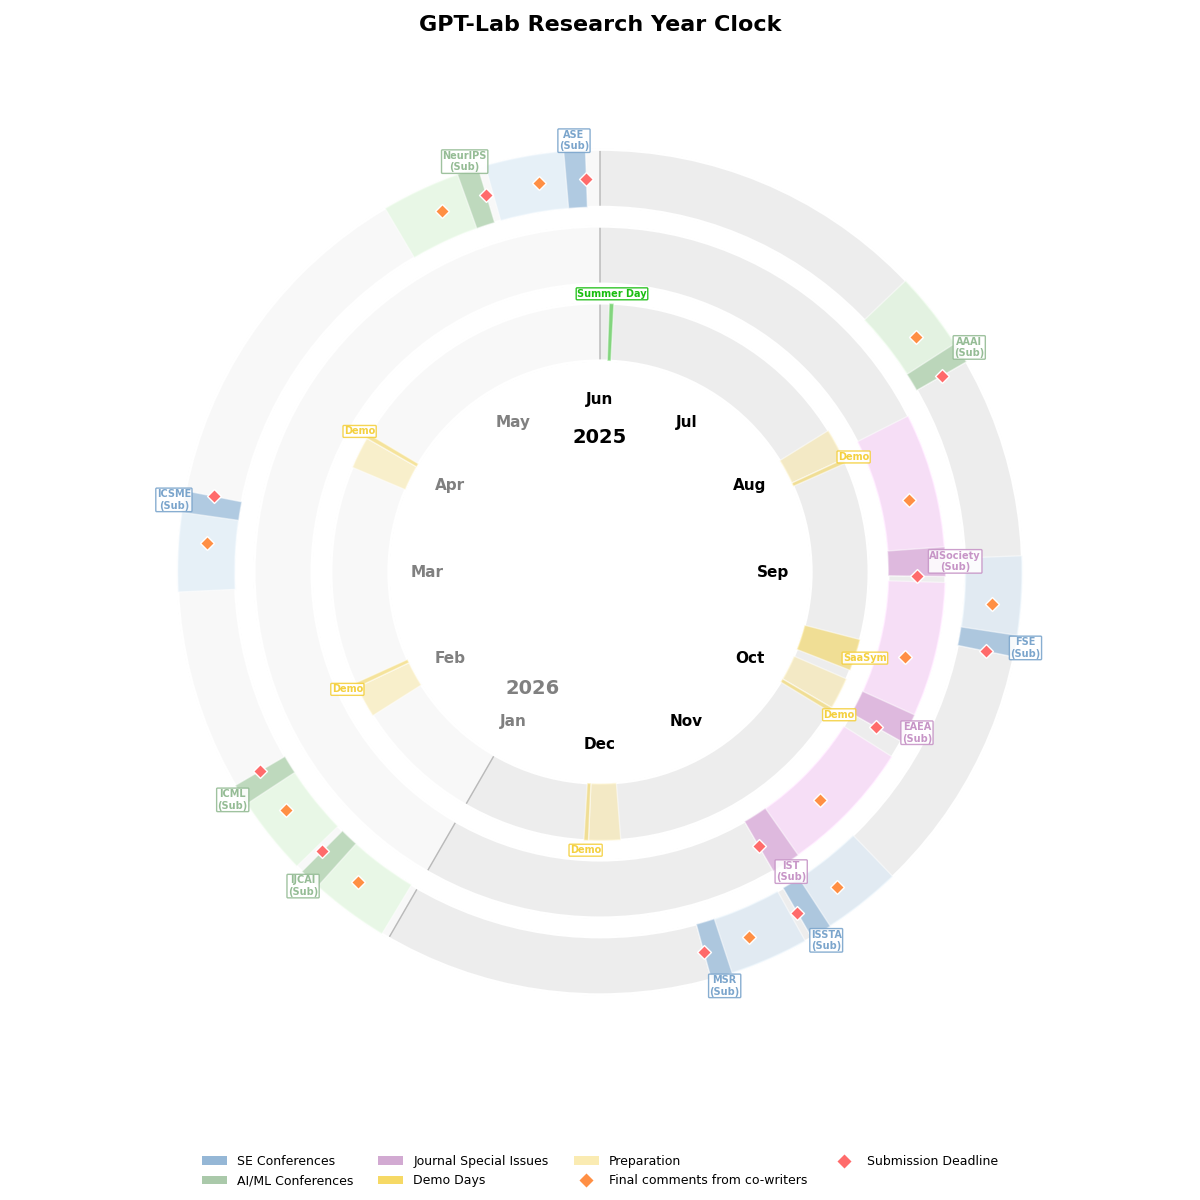
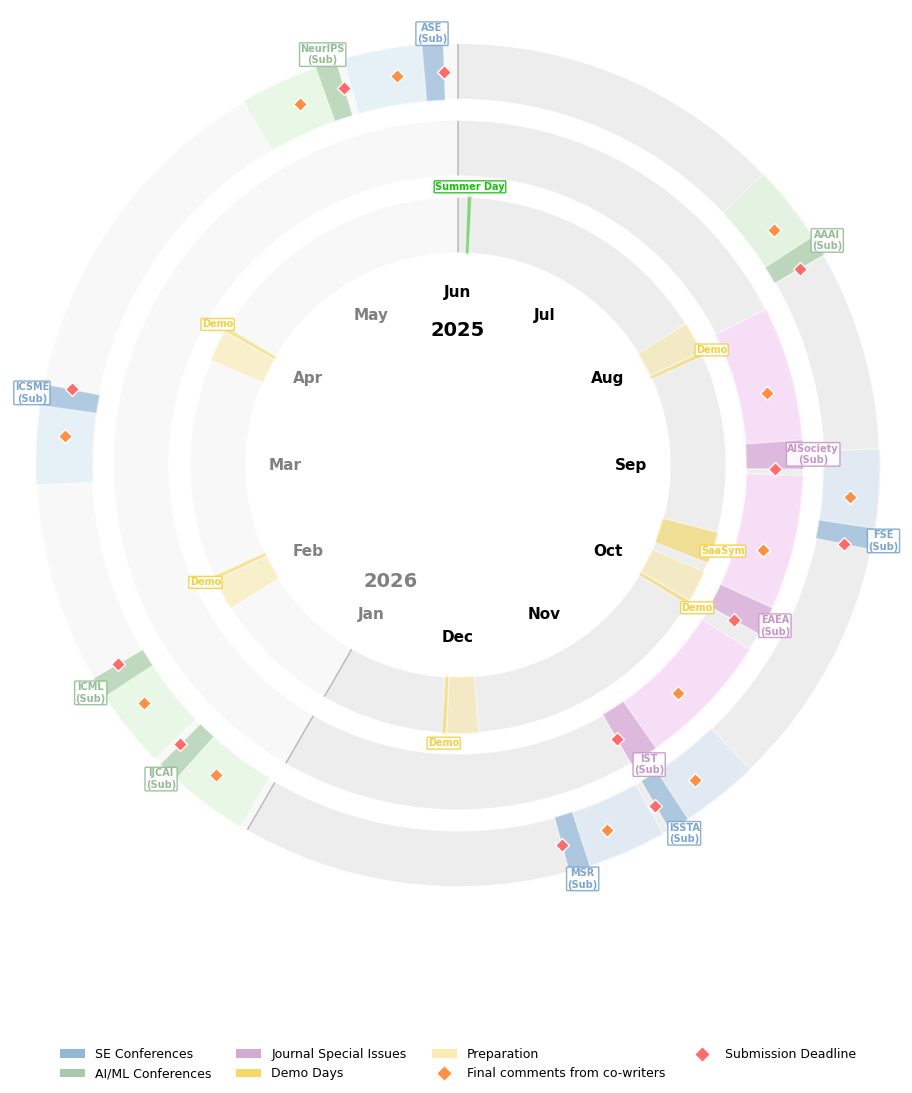
Minor adjustments to sample image

diff --git a/conference_clock.py b/conference_clock.py
@@ -185,6 +185,6 @@ for type, is_marker, legend_text in draw_order_and_legend:
 ax.legend(handles=legend_elements, loc='center', bbox_to_anchor=(0.5, -0.1),
           ncol=4, frameon=False, fontsize=9)
 
-plt.title('GPT-Lab Research Year Clock', fontsize=16, fontweight='bold', pad=30)
+plt.title('GPT-Lab Publication Year Wheel', fontsize=16, fontweight='bold', pad=30)
 plt.tight_layout()
 plt.show()
